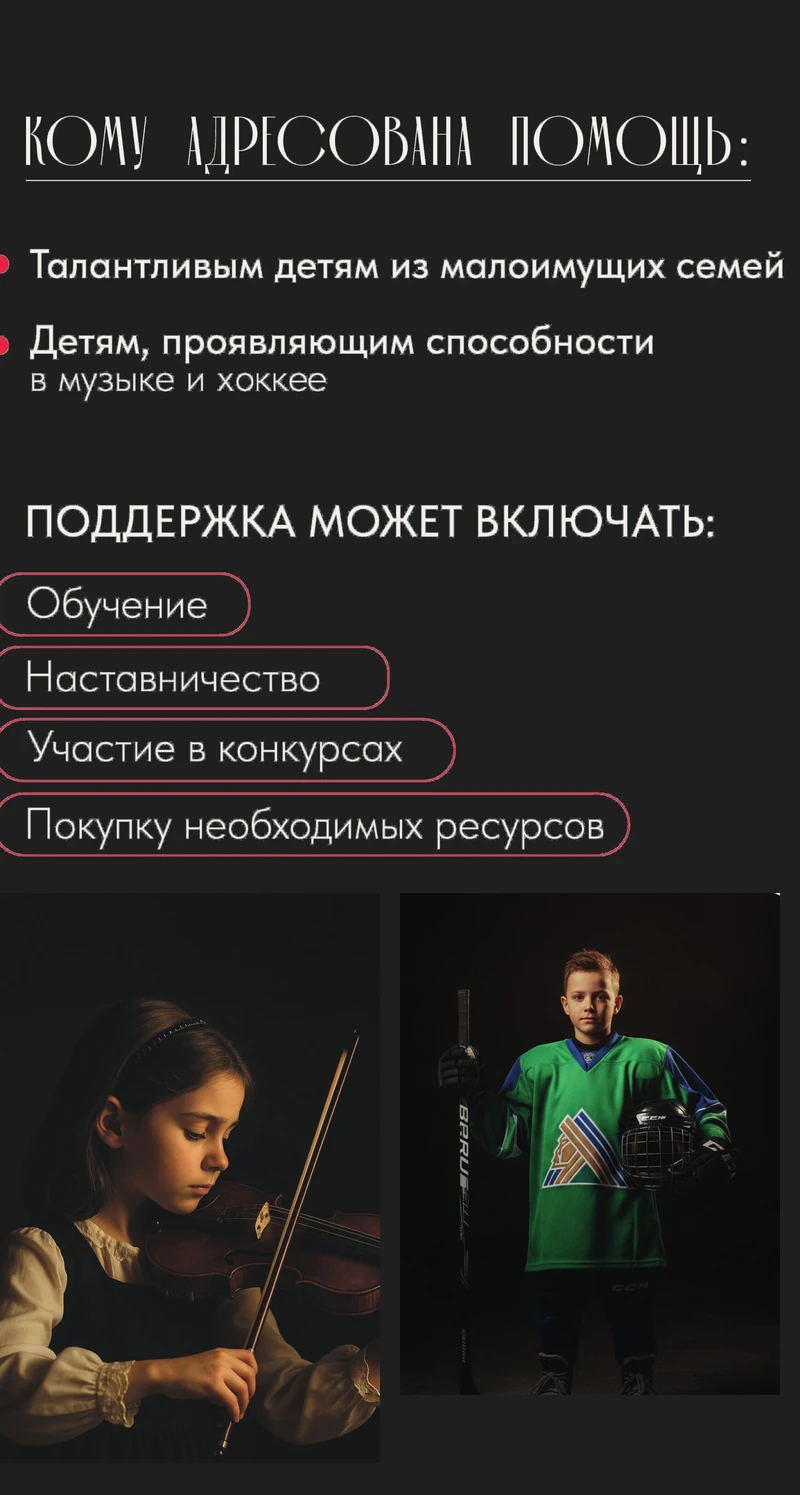
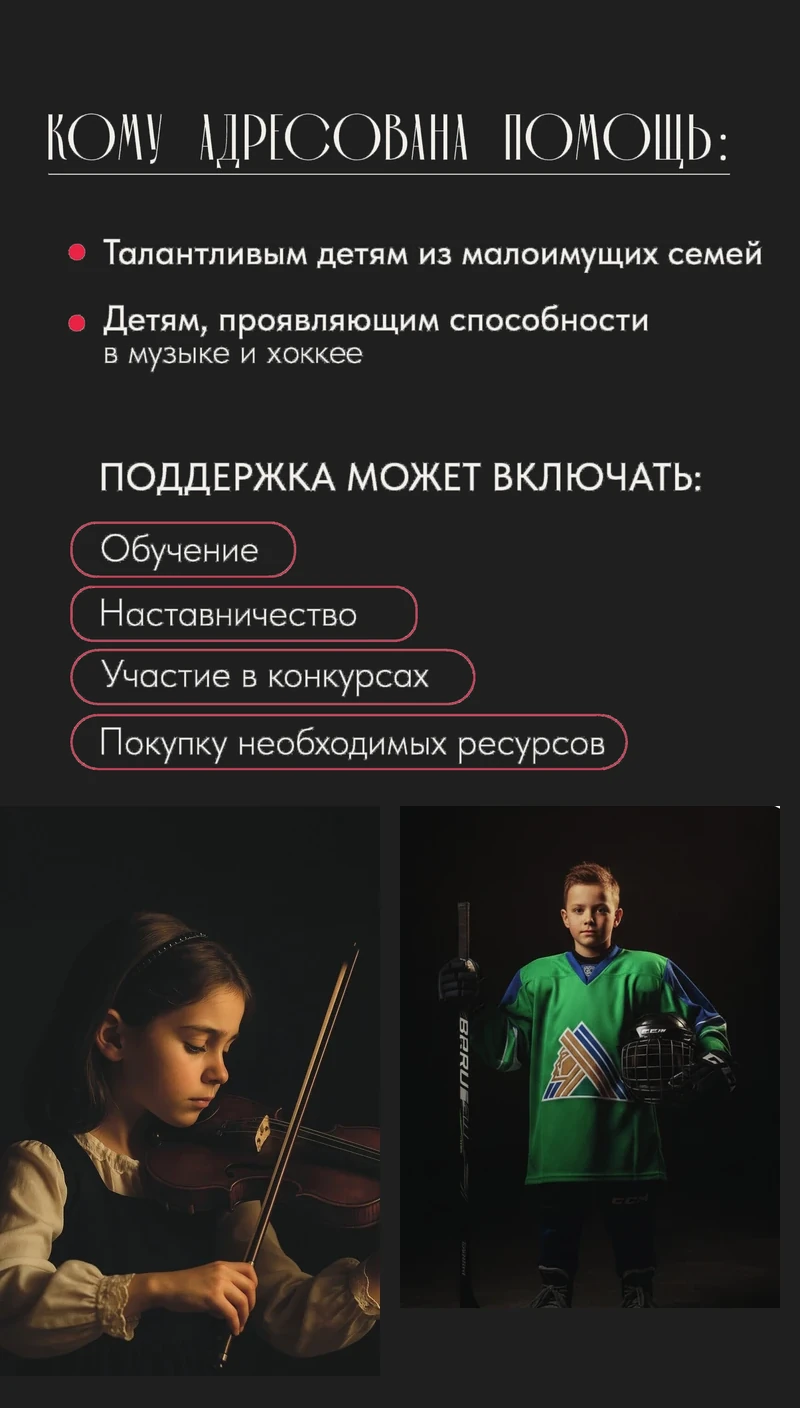
home: keep help card markers inside the frame
Rebuild the mobile help composite with a real left inset so the red bullets
and pill outlines are no longer clipped by the image edge.

diff --git a/index.html b/index.html
@@ -97,7 +97,7 @@
 			</figure>
 			<figure class="pdf-slide reveal">
 				<picture>
-					<source media="(max-width:1279px)" srcset="assets/img/story/mobile-help.webp?v=3" width="800" height="1495">
+					<source media="(max-width:1279px)" srcset="assets/img/story/mobile-help.webp?v=4" width="800" height="1408">
 					<img src="assets/img/story/pdf-help.webp"
 						alt="Кому адресована помощь: талантливым детям из малоимущих семей и детям, проявляющим способности в музыке и хоккее. Поддержка может включать обучение, наставничество, участие в конкурсах и покупку необходимых ресурсов."
 						width="2400" height="1350" loading="lazy">
